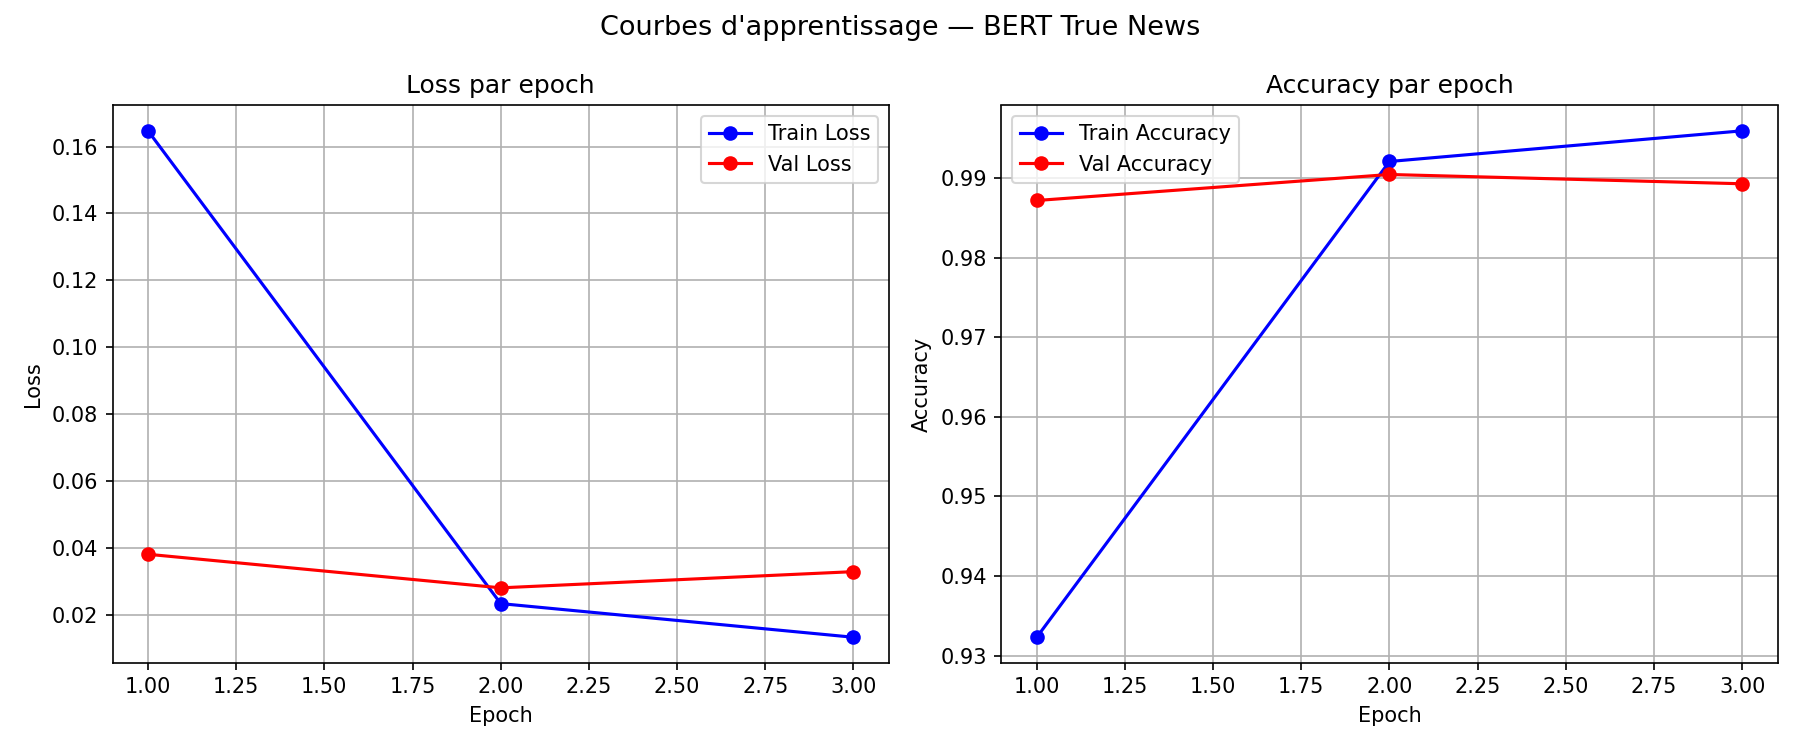
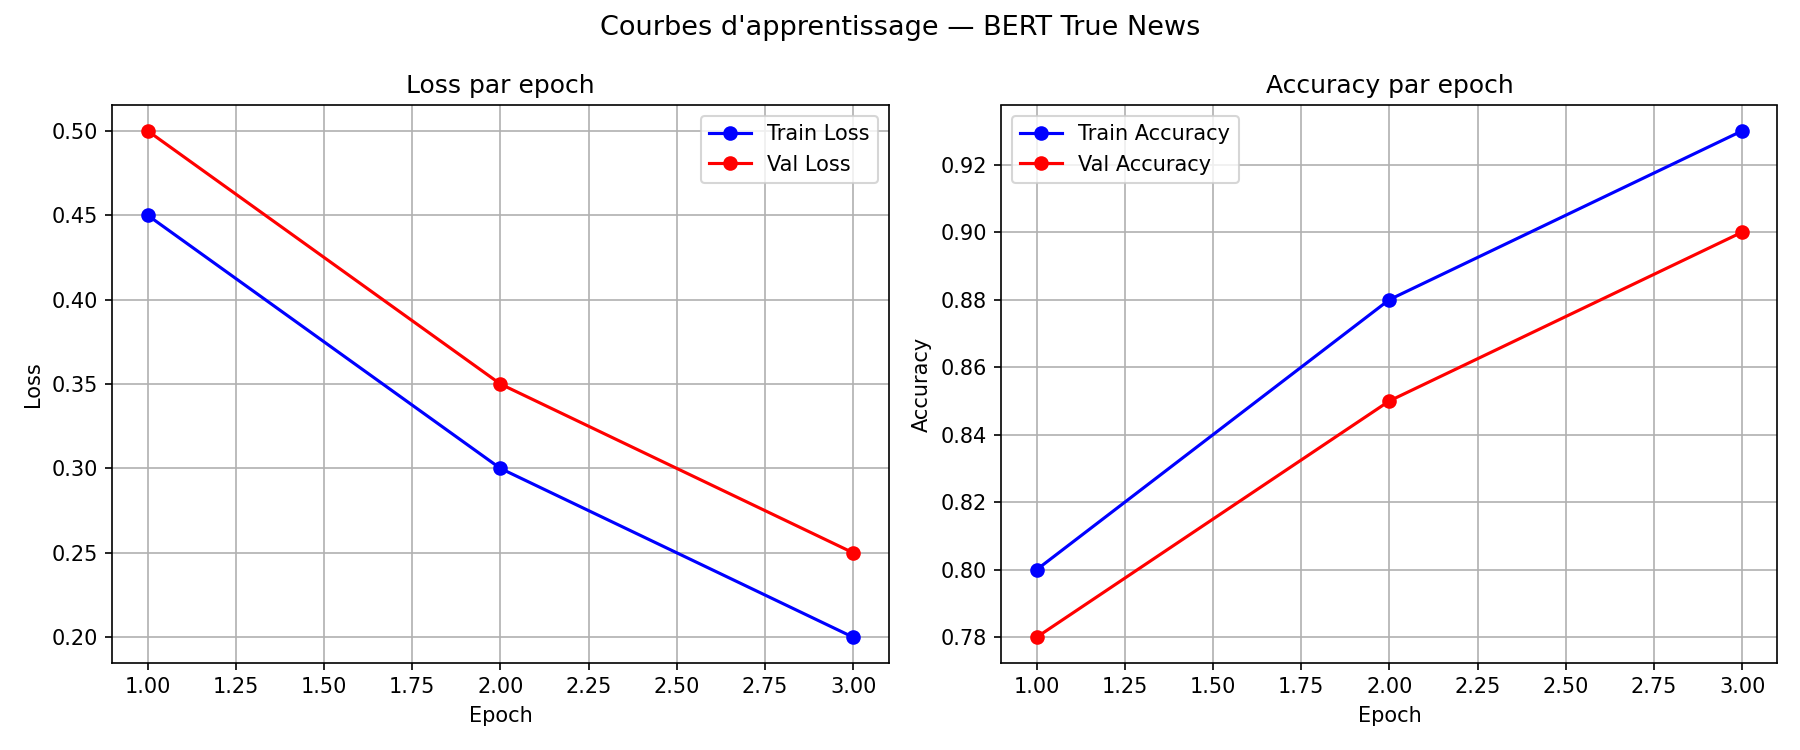
ajout images demo

diff --git a/README.md b/README.md
@@ -149,9 +149,9 @@ L'interface sera accessible à : `http://localhost:7860`
 ![Demo Politics](results/image-1.png)
 
 ### Exemple worldnews  
-![Demo World](results/image.png)
+![Demo World](results/image2.png)
 
-## 🛠️ Étapes de réalisation et difficultés rencontrées
+## Étapes de réalisation et difficultés rencontrées
 
 ### Étapes
 1. Analyse et exploration du dataset (distribution, longueur des textes)
@@ -171,7 +171,7 @@ L'interface sera accessible à : `http://localhost:7860`
 Le modèle est entraîné exclusivement sur des articles Reuters de 2016-2017 couvrant deux catégories : politique américaine 
 et actualité internationale. Il ne reconnaît pas les articles sportifs, économiques ou culturels. Ces textes sont classés 
 de façon arbitraire car hors de sa distribution d'entraînement voire image ci-dessous.
-![alt text](results/image-2.png)
+![alt text](results/image-3.png)
 ## Structure du projet
 bert-classification-true-news/
 